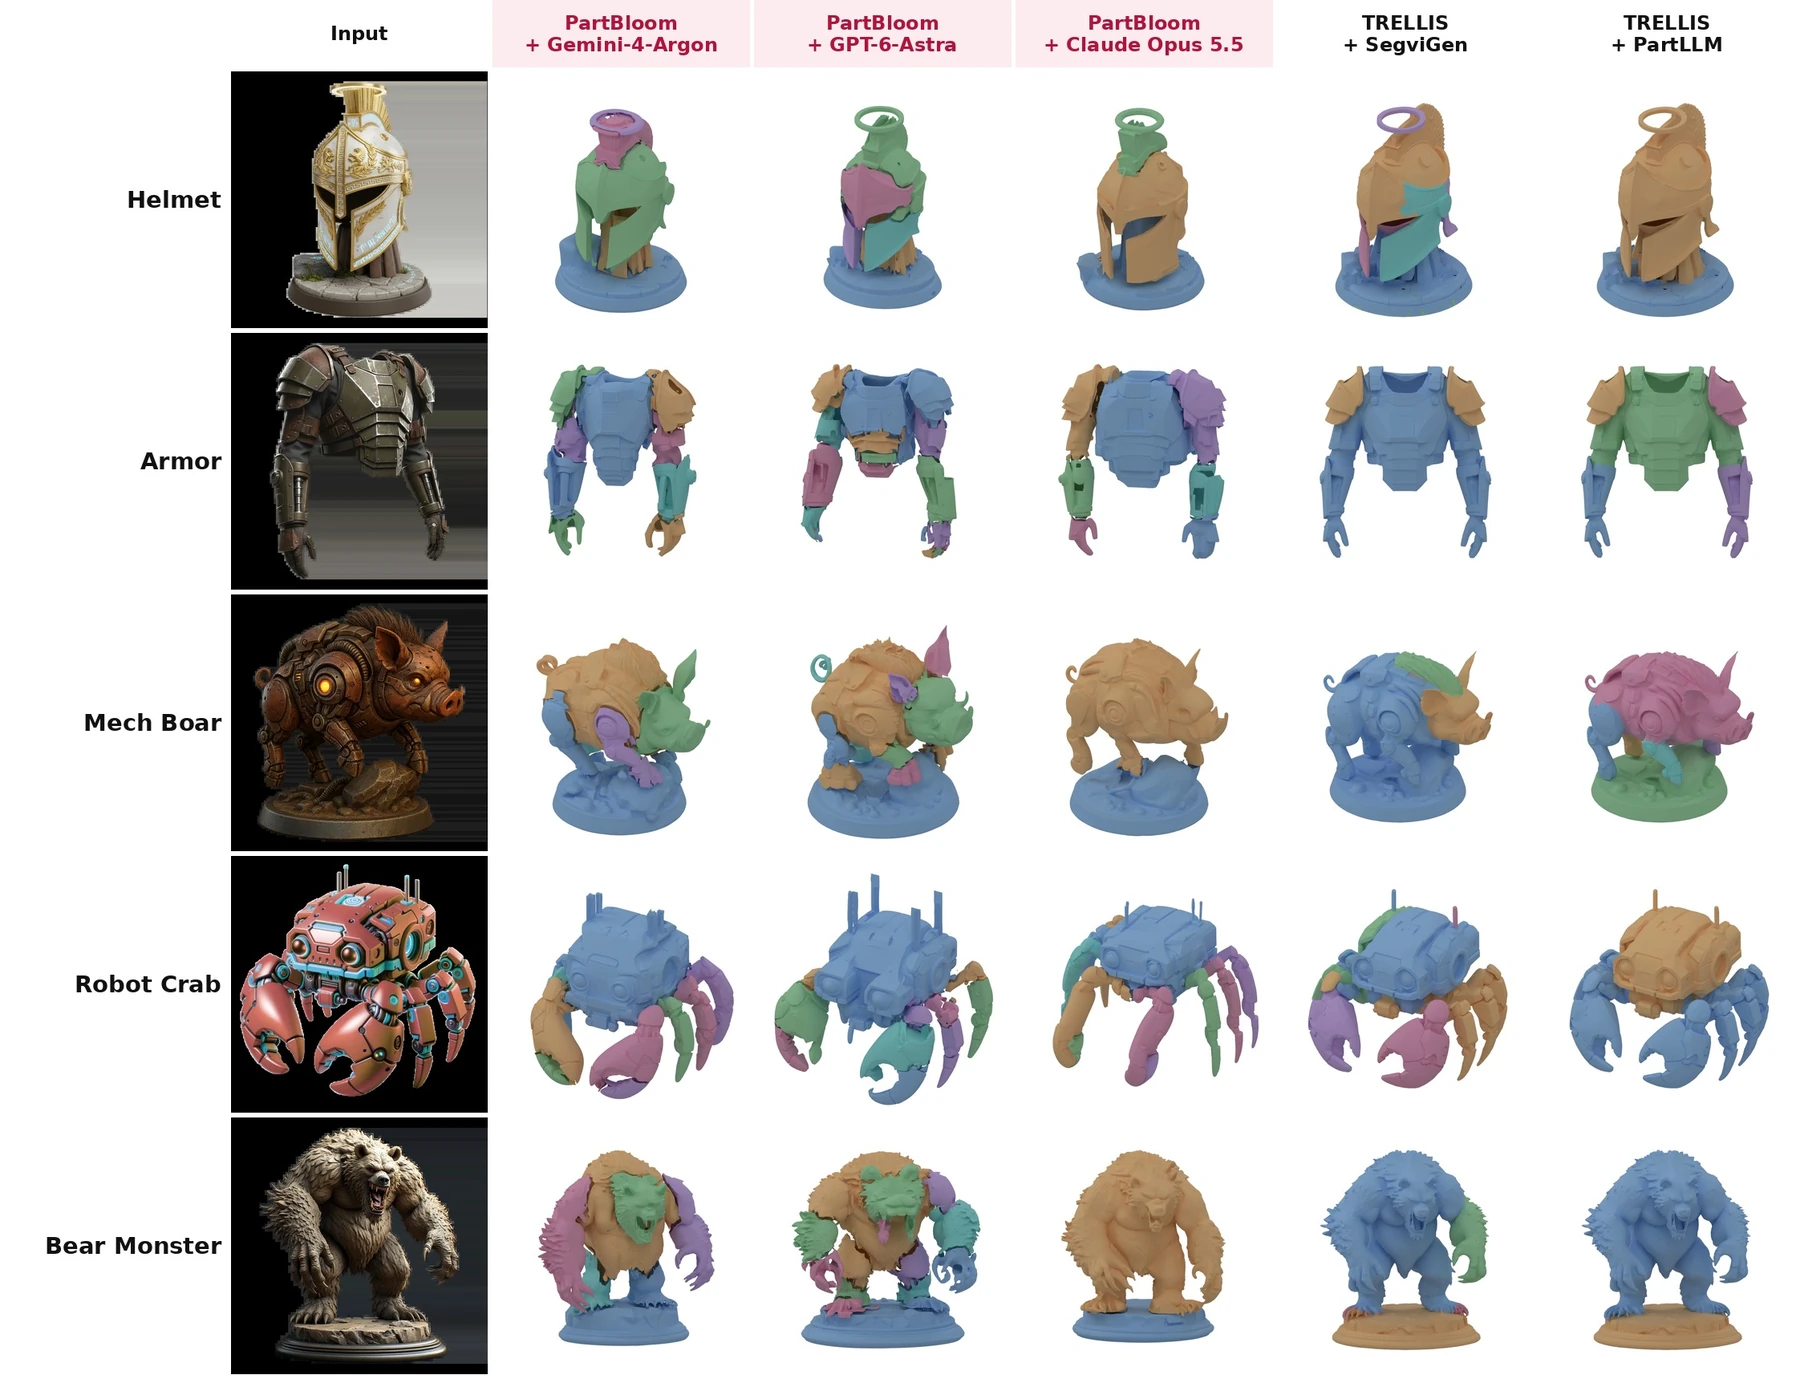
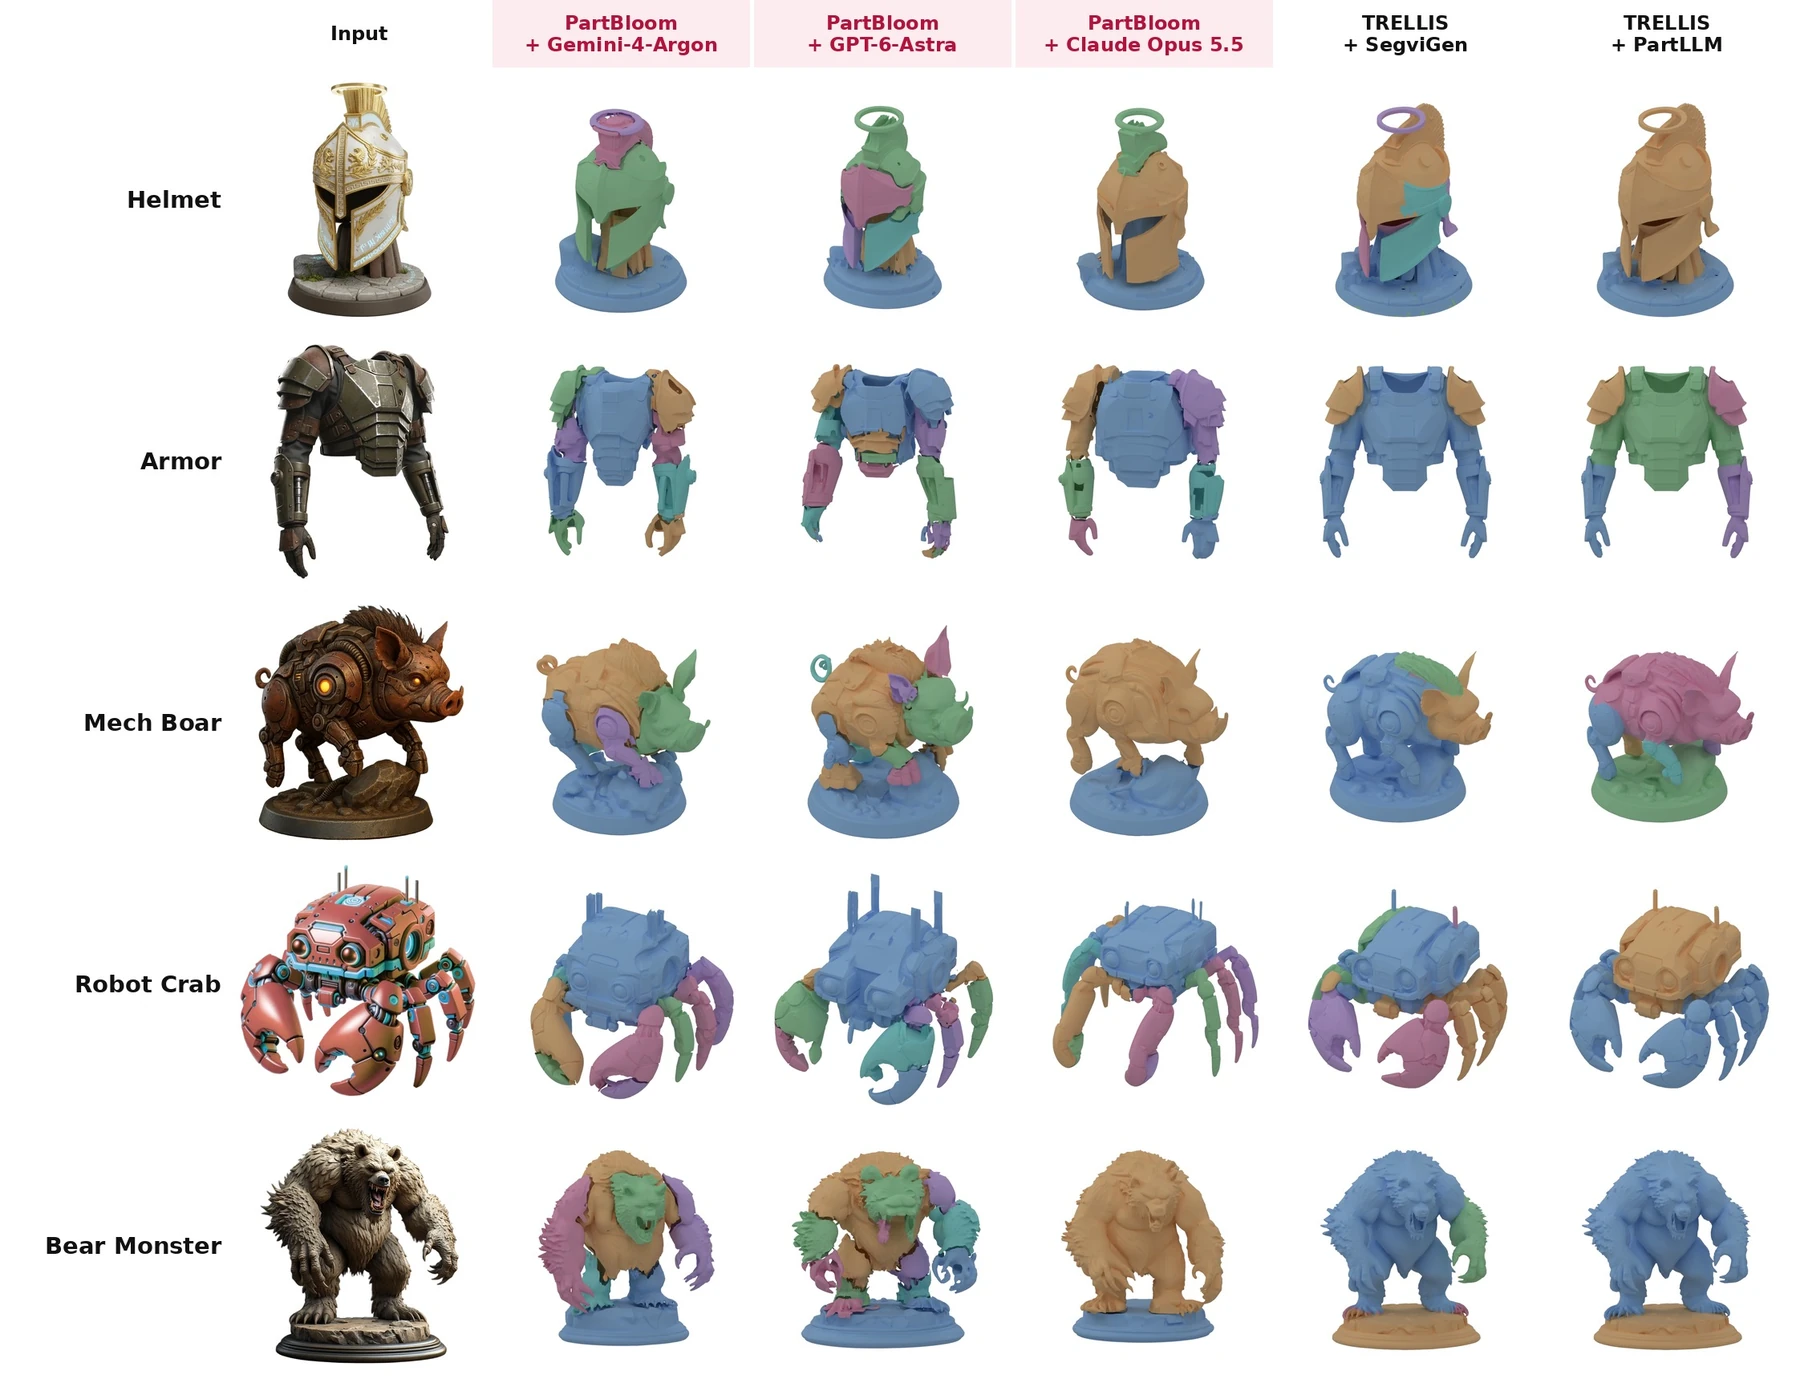
Match part figure inputs to white-background comparison images

Changed region(s): [[0.1244, 0.0312, 0.28, 0.9978]]

diff --git a/index.html b/index.html
@@ -98,9 +98,9 @@
         To explore our parts in 3D, use <b>Parts</b> mode or the exploded view above.
       </p>
       <div class="figure-stack">
-        <img src="assets/parts/parts_01.webp?v=2" alt="Part decomposition comparison, rows 1 to 5" loading="lazy">
-        <img src="assets/parts/parts_02.webp?v=2" alt="Part decomposition comparison, rows 6 to 10" loading="lazy">
-        <img src="assets/parts/parts_03.webp?v=2" alt="Part decomposition comparison, rows 11 to 14" loading="lazy">
+        <img src="assets/parts/parts_01.webp?v=3" alt="Part decomposition comparison, rows 1 to 5" loading="lazy">
+        <img src="assets/parts/parts_02.webp?v=3" alt="Part decomposition comparison, rows 6 to 10" loading="lazy">
+        <img src="assets/parts/parts_03.webp?v=3" alt="Part decomposition comparison, rows 11 to 14" loading="lazy">
       </div>
     </section>
 
